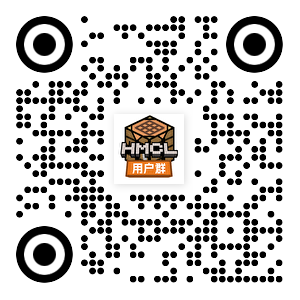
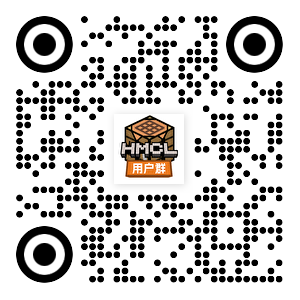
更新用户群二维码至七群 (#130)

diff --git a/_docs/groups.md b/_docs/groups.md
@@ -31,7 +31,8 @@ toc: true
 - [HMCL 用户群 ③ (201034984)](https://qm.qq.com/q/7sbMrFm9CE)（已满）
 - [HMCL 用户群 ④ (533529045)](https://qm.qq.com/q/ACmZa98tGg)（已满）
 - [HMCL 用户群 ⑤ (744304553)](https://qm.qq.com/q/MlVArSCMwM)（已满）
-- [HMCL 用户群 ⑥ (282845310)](https://qm.qq.com/q/S782Skmu0U)
+- [HMCL 用户群 ⑥ (282845310)](https://qm.qq.com/q/S782Skmu0U)（已满）
+- [HMCL 用户群 ⑦ (482624681)](https://qm.qq.com/q/WFsZ65F6MY)
 
 我们会不定期清理用户群中超过三个月没有发言的非活跃成员，每次清理前我们会提前一周在群内发布公告。
 
